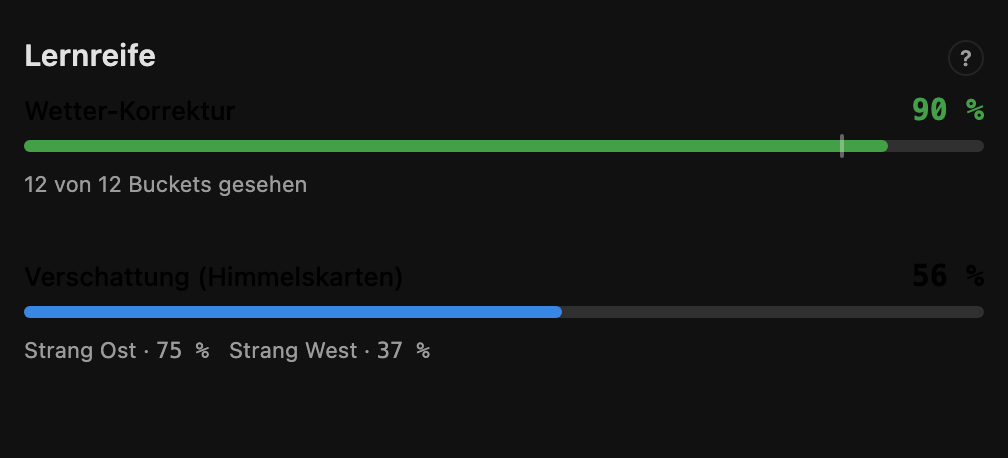
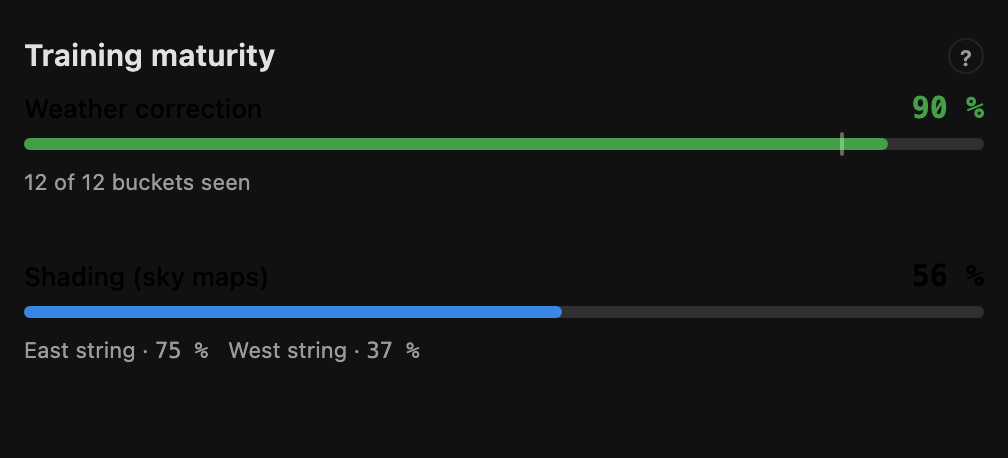
Render documentation screenshots in English; stop the chain card reloading forever when it cannot resolve the measured hour

diff --git a/tools/mock-preview.html b/tools/mock-preview.html
@@ -54,6 +54,8 @@
 <div class="wideb" id="histw"></div><div class="narrow" id="hists1"></div><div class="wideb" id="histbars"></div>
 <h4>history — hourly profile with week stepper (820px)</h4><div style="width:820px" id="histhp"></div>
 <h4>learning progress (940px)</h4><div class="wideb" id="learn1"></div>
+<h4>chain — one hour, layer by layer (460px)</h4><div class="narrow" id="chain"></div>
+<h4>daily — day-ahead vs actual (460px)</h4><div class="narrow" id="daily"></div>
 <script type="module">
   import "/pvstrings-dash.js";
   if (new URLSearchParams(location.search).get("dark") === "1") document.body.classList.add("dark");
@@ -153,8 +155,13 @@
       const lit = bell(h) > 0.02;
       const cell = lit ? +(air + bell(h) * (hot ? 9.5 : 6) - wind * 0.4).toFixed(1) : null;
       const thermal = lit ? +(1 - (cell - 25) * 0.004).toFixed(4) : 1.0;
-      rows.push({ datetime: dt, potential_kwh: p, unshaded_kwh: p, source_bias: 0.98,
-        shading: 1.0, model: 1.0, physics_kwh: p, thermal, cell_temp_c: cell, air_temp_c: air, wind_ms: wind });
+      // the east string carries a morning shadow and a model above 1, so the
+      // chain card has something to show; the west string stays flat
+      const shading = hot ? 1.0 : +(h < 11 ? 0.82 + 0.05 * (h - 7) : 1.0).toFixed(3);
+      const model = hot ? 1.0 : 1.06;
+      const phys = p, un = +(phys * model).toFixed(3);
+      rows.push({ datetime: dt, potential_kwh: +(un * shading).toFixed(3), unshaded_kwh: un, source_bias: 0.98,
+        shading, model, physics_kwh: phys, thermal, cell_temp_c: cell, air_temp_c: air, wind_ms: wind });
     }
     return rows;
   };
@@ -439,12 +446,29 @@
       attributes: { cells: cells.filter((c, i) => i % 2 === 0), level: null, fit_method: "absolute",
         friendly_name: "Strang West Himmelskarte" } },
   };
+  // daily card: tomorrow's forecast, and the day-ahead history the
+  // integration keeps on its 30-day sensor (rows keyed by the day they were for)
+  states["sensor.plant_fct"] = { entity_id: "sensor.plant_fct", state: "18.2",
+    attributes: { unit_of_measurement: "kWh", friendly_name: "PV Anlage Prognose morgen" } };
+  states["sensor.s1_prod"] = { entity_id: "sensor.s1_prod", state: "4.1",
+    attributes: { unit_of_measurement: "kWh", friendly_name: "Strang Ost Ertrag heute" } };
+  const dailyActual = (back) => +(13 + 6 * Math.sin(back * 1.3) + 2 * Math.cos(back * 0.7)).toFixed(2);
+  const dayKeyBack = (back) => { const dt = new Date(d0); dt.setDate(dt.getDate() - back);
+    return `${dt.getFullYear()}-${String(dt.getMonth() + 1).padStart(2, "0")}-${String(dt.getDate()).padStart(2, "0")}`; };
+  states["sensor.plant_da30"].attributes.history = { plant:
+    Array.from({ length: 14 }, (_, i) => [dayKeyBack(i), +(dailyActual(i) * (1 + 0.14 * Math.sin(i * 2.1))).toFixed(2)]) };
+  const statsD = Array.from({ length: 14 }, (_, i) => {
+    const back = 13 - i, dt = new Date(d0); dt.setDate(dt.getDate() - back);
+    return { start: dt.getTime(), end: dt.getTime() + 86400e3, change: dailyActual(back) };
+  });
   const entReg = [
     { entity_id: "sensor.s1_sky", platform: "pvstrings", device_id: "ds", unique_id: "e_s1_sky_map", translation_key: "sky_map" },
     { entity_id: "sensor.s1_shading", platform: "pvstrings", device_id: "ds", unique_id: "e_s1_shading_now", translation_key: "shading_now" },
     { entity_id: "sensor.plant_fc", platform: "pvstrings", device_id: "dp", unique_id: "e_forecast_today", translation_key: "forecast_today" },
     { entity_id: "sensor.s1_fc", platform: "pvstrings", device_id: "ds", unique_id: "e_s1_forecast_today", translation_key: "forecast_today" },
     { entity_id: "sensor.plant_da30", platform: "pvstrings", device_id: "dp", unique_id: "e_wmape_day_ahead_30d", translation_key: "wmape_day_ahead_30d" },
+    { entity_id: "sensor.plant_fct", platform: "pvstrings", device_id: "dp", unique_id: "e_forecast_tomorrow", translation_key: "forecast_tomorrow" },
+    { entity_id: "sensor.s1_prod", platform: "pvstrings", device_id: "ds", unique_id: "e_s1_produced_today", translation_key: "produced_today" },
     { entity_id: "sensor.plant_prod", platform: "pvstrings", device_id: "dp", unique_id: "e_produced_today", translation_key: "produced_today" },
     { entity_id: "sensor.plant_power", platform: "pvstrings", device_id: "dp", unique_id: "e_power_now", translation_key: "power_now" },
     { entity_id: "sensor.ghi_check", platform: "pvstrings", device_id: "dp", unique_id: "e_ghi_forecast", translation_key: "ghi_forecast" },
@@ -611,7 +635,7 @@
       case "config/entity_registry/list": return entReg;
       case "config/device_registry/list": return devReg;
       case "recorder/statistics_during_period":
-        return { [cmd.statistic_ids[0]]: cmd.period === "5minute" ? stats5 : statsH };
+        return { [cmd.statistic_ids[0]]: cmd.period === "5minute" ? stats5 : cmd.period === "day" ? statsD : statsH };
       default: return {};
     }
   };
@@ -686,6 +710,8 @@
       ["#histbars", "pvstrings-forecast", { entity: "sensor.plant_fc", days: 2, show_unshaded: false }],
       ["#histhp", "pvstrings-hour-profile", { entity: "sensor.plant_da30" }],
       ["#learn1", "pvstrings-learning", { entity: "sensor.plant_da30" }],
+      ["#chain", "pvstrings-chain", { entity: "sensor.s1_fc" }],
+      ["#daily", "pvstrings-daily", { entity: "sensor.plant_fc", days: 14 }],
       ["#matn", "pvstrings-maturity", { entity: "sensor.plant_mo2",
         rows: [{ name: "Strang Ost", sky: "sensor.s1_sky" }, { name: "Strang West", sky: "sensor.s2_sky" }] }]]) {
     const el = document.createElement(tag);

diff --git a/pvstrings-dash.js b/pvstrings-dash.js
@@ -27,7 +27,7 @@
 
 /* ============================ SECTION: HEADER ============================ */
 
-const PVS_VERSION = "0.24.0";
+const PVS_VERSION = "0.24.1";
 const PVS_MIN_INTEGRATION = "1.8.0";
 
 /* ============================ SECTION: CONST ============================= */
@@ -4474,7 +4474,7 @@ class PvsChainCard extends PvsBaseCard {
     this._measured = undefined;
     try {
       const producedId = await sibling(hass, this._config.entity, "string_produced_today");
-      if (!producedId) { this._measured = { err: "unresolved" }; return this._render(); }
+      if (!producedId) { this._measured = { err: "unresolved", hourMs }; return this._render(); }
       this._producedId = producedId;
       const rows = await hourlyActuals(hass, producedId,
         new Date(hourMs).toISOString(), new Date(hourMs + 3600000).toISOString());
@@ -4483,7 +4483,7 @@ class PvsChainCard extends PvsBaseCard {
       this._measured = { kwh: row?.change ?? null, hourMs };
       this._render();
     } catch (_) {
-      if (token === this._renderToken) { this._measured = { err: "stats" }; this._render(); }
+      if (token === this._renderToken) { this._measured = { err: "stats", hourMs }; this._render(); }
     }
   }
 

diff --git a/README.md b/README.md
@@ -10,7 +10,7 @@ register themselves. Install the integration, restart, done. This repository
 is where the cards are developed and documented. The dashboard is optional:
 the integration publishes everything as ordinary entities and works without it.
 
-![Forecast and actual for today](docs/img/en-forecast-wide.png)
+![Forecast and actual for today](docs/img/forecast-wide-dark.png)
 
 ## A complete dashboard in one step
 
@@ -37,14 +37,14 @@ config and edit it like any dashboard.
 
 | | |
 |---|---|
-| ![Sky map](docs/img/en-sky-map.png) | ![Conversion](docs/img/en-conversion.png) |
+| ![Sky map](docs/img/sky-map-dark.png) | ![Conversion](docs/img/conversion-dark.png) |
 
 The sky map is why these cards exist. On the reference plant two strings with
 the same orientation and tilt lose 0.3 % and 67.7 % in the same patch of sky —
 one has a neighbour's house in its morning. In a table that is noise; as two
 maps side by side it is obvious.
 
-![Day-ahead error by hour](docs/img/en-hour-profile.png)
+![Day-ahead error by hour](docs/img/hour-profile-dark.png)
 
 *Screenshots show demo data.*
 

diff --git a/docs/development.md b/docs/development.md
@@ -20,7 +20,8 @@ Screenshots in `docs/img` are generated, not taken by hand: start
 `node tools/serve.mjs`, then run `node tools/shots.mjs` for the card images
 and `node tools/details.mjs` for the detail crops used in the [card reference](cards.md). Both
 render `tools/mock-preview.html`, so the images carry synthetic data and no
-plant of anyone's.
+plant of anyone's. `tools/english.mjs` rewrites the German harness to English
+on the fly, so the documentation images are English.
 
 One ES module, plain JavaScript, no build step — `pvstrings-dash.js` is both
 source and artifact. The `tools/` directory carries the dev loop:
